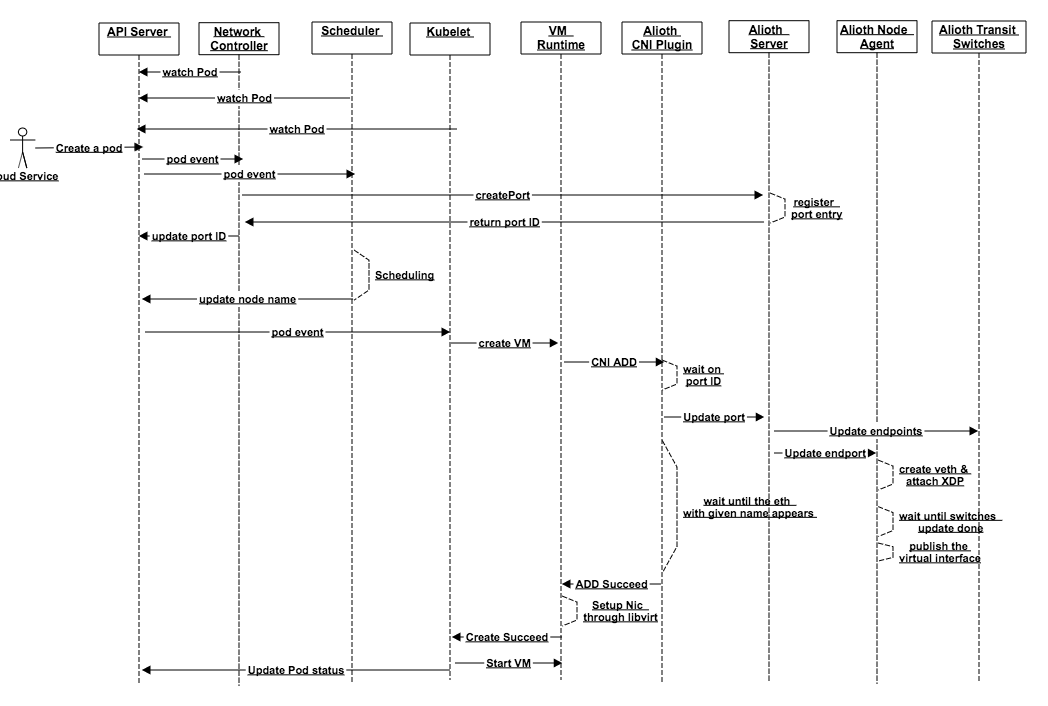
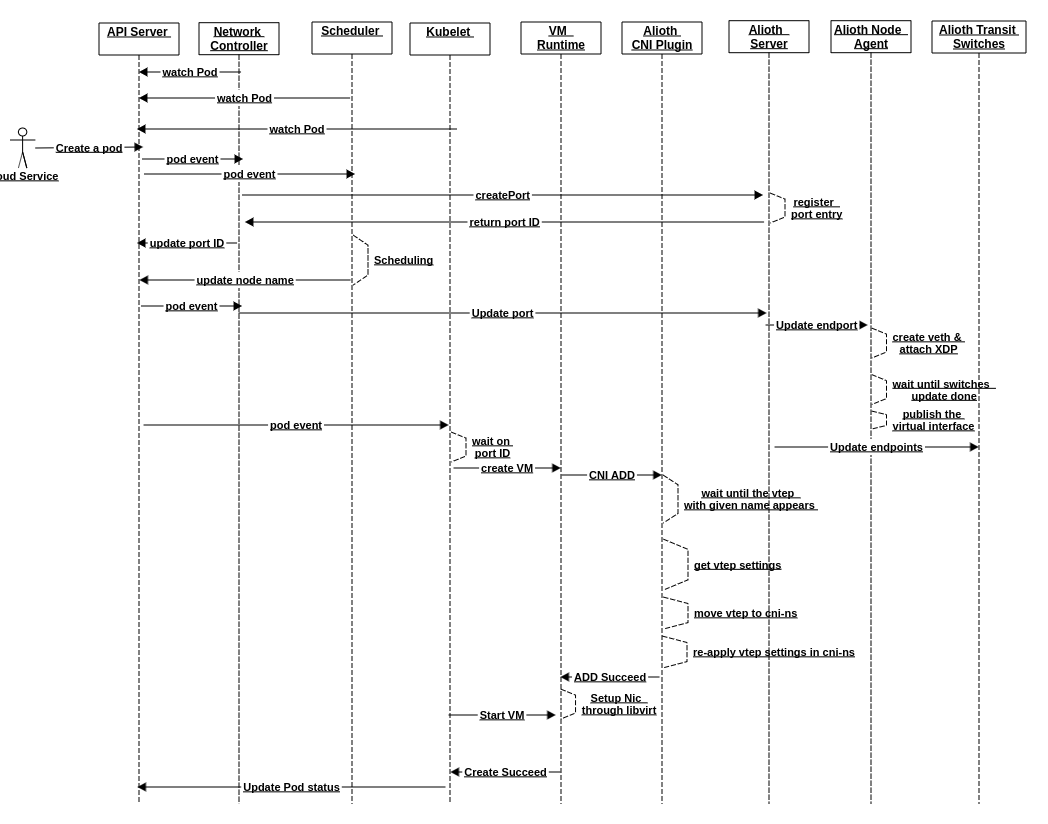
doc - alioth cni plugin design spec update

diff --git a/docs/design-proposals/network/NICAndVPCSupportInAlkaid.md b/docs/design-proposals/network/NICAndVPCSupportInAlkaid.md
@@ -180,8 +180,8 @@ Here is the sequence flow in the case of Alioth VPC service:
 
 As you can see most parts of the flow are same, including pod watching, calling VPC API, etc. The difference is mainly about how Alioth updates ports and how Alioth CNI plugin works:
 
-* Alioth control plane will update transit switches to ensure packets are correctly forwarded, and also notify host agent to create a new endpoint.
-* Alioth CNI Agent doesn't create tap, linux bridge or veth devices which are required in the Neutron case. Alioth CNI plugin only waits until a virtual network interface with a given name to appear.
+* Alioth CNI plugin identifies the virtual interface (a veth vtep inside the VPC specific netns) that Alioth control plane has provisioned, and move the device to the desired CNI netns, restores its network related setting like ip address, gateway, etc. This is quite different from the Neutron case where CNI plugin has to create quite some devices like tap/bridge/veth pair, Alioth CNI plugin does not create new device, instead it moves the identified device to the target netns, ensuring proper device configurations after the netns move.
+* Alioth control plane will update transit switches to ensure packets are correctly forwarded, and also notify host agent to create the new endpoint, which CNI plugin is expecting.
 
 The section of Alioth CNI plugin also describes the interaction.
 
@@ -238,7 +238,6 @@ Our VM runtime is evolved from the Virtlet project. It currently creates a bridg
 The following changes are required:
 
 * Pass the Nic configurations to CNI plugin through its **Extra Arguments** field.
-* Use the TAP device created by the CNI plugin. 
 
 ### Neutron CNI Plugin
 
@@ -263,14 +262,13 @@ The below diagram shows the ownership of above devices:
 
 ### Alioth CNI Plugin
 
-Similar to the Neutron CNI plugin, Alioth CNI plugin also needs to interact with Alioth data plane components on the host to initialize and destroy a port.
-
 Alioth has a much-simplified data plane components on each computing host. It basically creates a veth pair for each port, attaches its eBPF program to one end of the pair, and leaves the other end of the pair to pods. The other end of the veth pair will be listed in the host namespace as a virtual interface.
 
 The current agreement between Alkaid and Alioth is:
 
-* The virtual interface will follow a naming rule. For example, "eth{portID}". The detailed portID format hasn't been decided yet. But it needs to be unique at least on its own host machine.
-* Once the virtual interface (one end of the veth pair created by Alioth agent) appears, it means the preparation work on Alioth side has been done and the port is ready for Alkaid to use.
+* The virtual interface will follow a naming rule. For example, "veth{portID}". The detailed portID format hasn't been decided yet. But it needs to be unique at least on its own host machine.
+* Alioth agent puts the virtual interface inside of VPC specific netns. The name of VPC specific netns should be "vpc{full-vpc-id}"
+* Once the virtual interface (one end of the veth pair created by Alioth agent) appears inside of the VPC netns, it means the preparation work on Alioth side has been done and the port is ready for Alkaid to use.
 
 Therefore, the Alioth CNI plugin only needs to query and wait until a virtual interface with the expected name appears in the host namespace.
 
